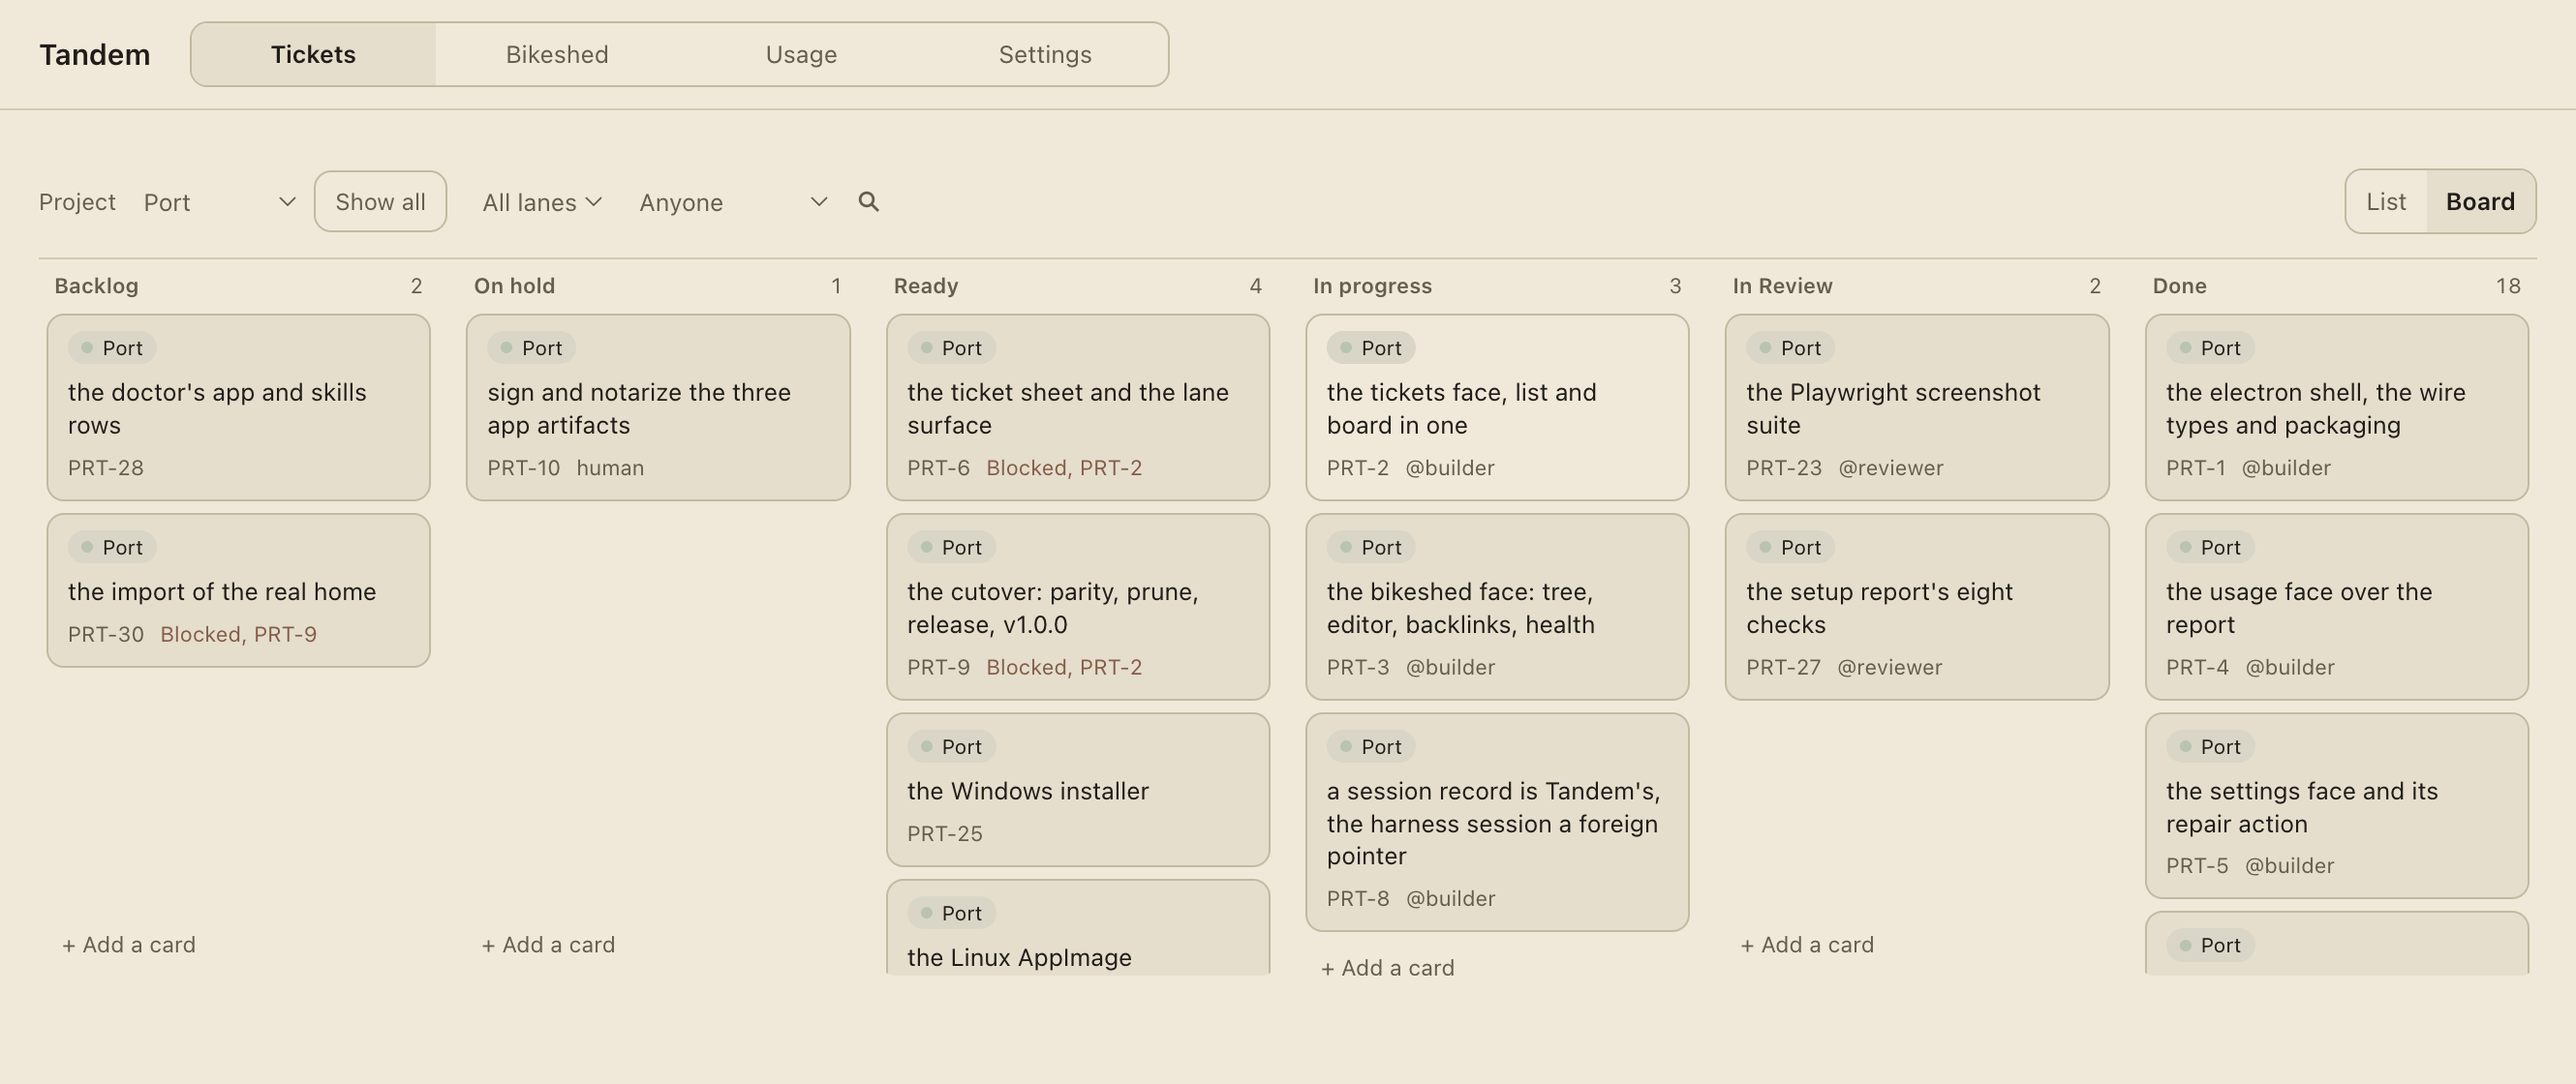
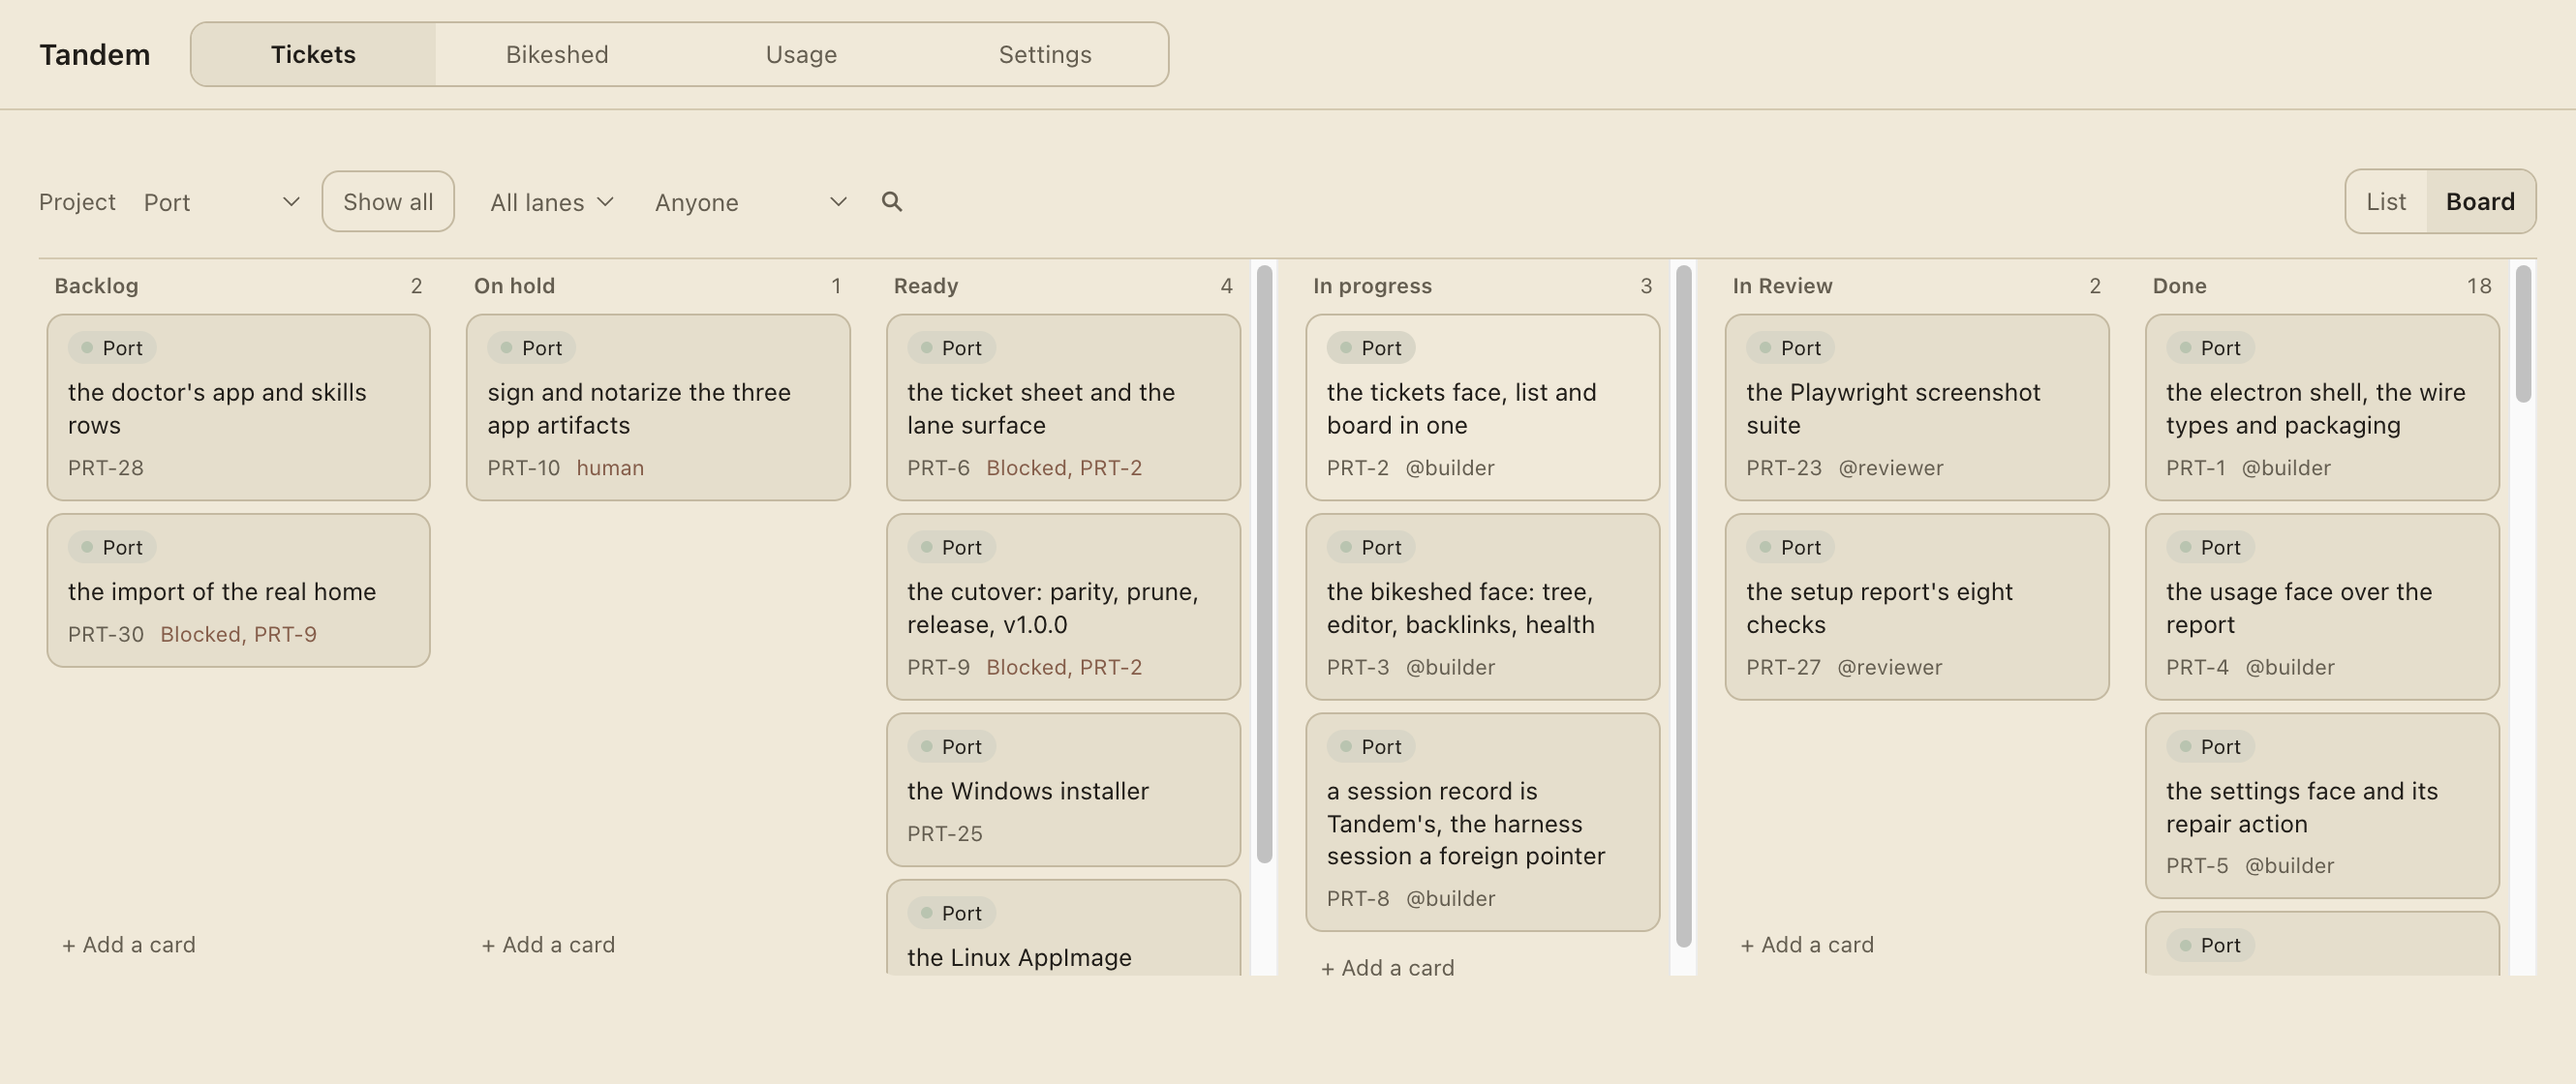
UI-33: the board's one axis is an ADR, the empty board draws its columns, the human chip keeps its ink

diff --git a/app/renderer/src/faces/TicketsFace.tsx b/app/renderer/src/faces/TicketsFace.tsx
@@ -366,6 +366,11 @@ export function TicketsFace({
     activeProject,
     onReload,
   )
+  // A store that has not answered yet draws its message alone. Once it has, the
+  // board's columns are the workflow's stages and exist with zero tickets, so
+  // the board draws them (with their add feet) and the copy sits above: the
+  // copy names an add the human can reach, and the add shortcut has a target.
+  const firstRead = snapshot.tickets.length === 0 && snapshot.status !== 'ready'
 
   const laneFilter = (
     <select
@@ -539,8 +544,26 @@ export function TicketsFace({
           </>
         )}
 
-        {empty ?? (
-          view === 'list' ? (
+        {view === 'board' ? (
+          firstRead ? (
+            empty
+          ) : (
+            <>
+              {empty}
+              <BoardLayout
+                columns={boardCols}
+                selected={current}
+                onSelect={setSelected}
+                onOpen={onOpenTicket}
+                onLane={(lane) => setFilters((current) => ({ ...current, lane }))}
+                onDropOn={dropStatus}
+                onAdd={addCard}
+                firstAddRef={firstAdd}
+              />
+            </>
+          )
+        ) : (
+          empty ?? (
             <TicketList
               columns={columns}
               stages={stages}
@@ -549,17 +572,6 @@ export function TicketsFace({
               onToggle={toggle}
               onOpen={onOpenTicket}
               onDropOn={dropOn}
-            />
-          ) : (
-            <BoardLayout
-              columns={boardCols}
-              selected={current}
-              onSelect={setSelected}
-              onOpen={onOpenTicket}
-              onLane={(lane) => setFilters((current) => ({ ...current, lane }))}
-              onDropOn={dropStatus}
-              onAdd={addCard}
-              firstAddRef={firstAdd}
             />
           )
         )}

diff --git a/app/tests/board.test.ts b/app/tests/board.test.ts
@@ -706,6 +706,16 @@ describe('the board face (UI-33)', () => {
     expect(face).not.toContain('LANE_CHANGED')
   })
 
+  it('draws the board columns on an empty board, so its add and the shortcut exist', () => {
+    const face = source('faces/TicketsFace.tsx')
+    // The store's first read draws its message alone; a ready store always
+    // draws the columns, whatever they hold, and the copy sits above them.
+    expect(face).toContain('const firstRead =')
+    expect(face).toContain('firstRead ?')
+    expect(face).toContain('<BoardLayout')
+    expect(face).toContain('firstAddRef={firstAdd}')
+  })
+
   it('lists the projects, not the lanes, in the one focus control', () => {
     expect(source('faces/FocusControl.tsx')).toContain('projects.map(')
     expect(source('faces/FocusControl.tsx')).toContain('All projects')

diff --git a/app/renderer/src/app.css b/app/renderer/src/app.css
@@ -1290,7 +1290,8 @@ body {
   white-space: nowrap;
 }
 
-.ticket-row__assignee--human {
+.ticket-row__assignee--human,
+.ticket-card__assignee--human {
   color: var(--ember-deep);
 }
 

diff --git a/rust/cli/src/usage.rs b/rust/cli/src/usage.rs
@@ -1276,9 +1276,9 @@ pub fn verb(name: &str) -> Option<&'static str> {
             "\n",
             "",
             "\n",
-            "The roster beside the active project: the lane the faces draw, or",
+            "The roster beside the active project: the project the faces draw,",
             "\n",
-            "null when no focus is set. The same read the app makes over `rpc`.",
+            "or null when no focus is set. The same read the app makes over `rpc`.",
         ),
         "settings set" => concat!(
             "tandem-cli settings set \u{2014} the roster and the focus, one axis per flag.",

diff --git a/docs/adr/0043-the-board-draws-one-axis.md b/docs/adr/0043-the-board-draws-one-axis.md
@@ -1,0 +1,32 @@
+# The board draws one axis: the workflow's stages
+
+The board carried two axes. Lanes were rows and the active workflow's stages were columns ([ADR 0041](0041-workflows-are-data.md)), so five lanes by six stages was 30 cells and most of them were empty dashed drop targets; a lane was also a filter in the header, so one fact was drawn twice. The board now draws one column per stage and nothing else: a lane is a chip on the card and a filter in the header, and the project is the focus the columns are narrowed by.
+
+Decided 2026-11-11 (UI-33 built it).
+
+## Decision
+
+- **The columns are the stages.** The board draws one column per stage of the active workflow, in stage order, Done included. Each is an independent scroll pane with a sticky head carrying the stage's label and the number of cards in it, and each foot carries the column's add. A seventh stage arrives through the workflow read with no code change.
+- **The board's set is every non-archived ticket.** It is narrowed by the project focus, the lane filter, the assignee filter and the search. The Open/Done/All scope and the status filter are the list's: the columns are the statuses, so a done ticket stands in Done whatever the scope says.
+- **A lane is a label.** The lane draws as a chip on the card, coloured by a hash of the lane name over the palette tokens, so no colour is stored and the same lane keeps its tone across sessions. Clicking the chip sets the lane filter and does not open the sheet. The lane is also a filter in the header, never an axis of the board, and a ticket with no lane draws no chip.
+- **The project is the focus.** `active_project` resolves against the board's projects, not the declared lanes. A stored value that names no project reads as no focus, which is the existing stale-focus rule, so no migration and no schema change. The show-all escape draws every project without clearing the stored focus.
+- **A card is its own component.** The lane chip, the title, and a footer of ref, `@assignee` and the blocked mark. No completion checkbox, no status pill (the column is the status), no lane text line, no strikethrough for done. One click opens the sheet, and a drag starts on the card and carries the ticket id.
+- **A drop is one write.** A drop on another column is one `ticket.set` carrying that column's stage. A drop in the column the card already stands in writes nothing, because the store's order is per lane and a lane-agnostic column has no order to write.
+- **The list keeps the lane axis.** It groups by lane, keeps its scopes, its status filter and its quick-add, and is narrowed by the same project focus.
+
+## Amendments
+
+- **[ADR 0017](0017-the-ticket-model.md): the lane stays the third axis; the board stops drawing it as rows.** The cycle lane is still the area of concern, which the list groups by; the board now draws it as a chip on the card. The sentence "which the list groups by and the board draws as its rows" is overruled in its board half only.
+- **[ADR 0039](0039-projects-own-lanes.md): the board groups by stage, not by project header.** The model stands unchanged: a project holds lanes, and a ticket's project is derived via its lane. The bullet "The board groups lanes under project headers in project order, default area first and ungrouped, empty projects not drawn" and the phrase "cross-project capture, first on the board" are overruled: the board draws stages, a project is the focus the columns are narrowed by, and the default area is a card with no chip.
+
+## Why
+
+- **Two axes drew one fact twice.** The lane was a row and a header filter at once, and the empty cells were most of the grid: a 78-ticket home needed a 1330 px window to show one screen.
+- **A lane-agnostic column has no order.** The store's order is per lane (`ticket.move` takes a lane and an index in it), so a column that mixes lanes has no order a drop could write. The list owns ordering, and the board's drop is a status write alone.
+- **A chip is the lane's whole drawing.** The lane's colour is a hash of its name, so the board gains a readable label without a stored colour and without a second truth.
+
+## Consequences
+
+- A board with an empty stage still draws that stage's column and its add foot, because the columns are the workflow's stages and exist with zero tickets. A first read that has not answered draws its message alone.
+- The board's copy names the per-column add, and `⌘N` reaches the first column's add; `⌥↑↓` orders in the list only, and `⌥←→` steps the status.
+- A stored `active_project` written by the lane-era build reads as no focus. The reader-first rule applies: no migration is needed because the stale value hides nothing.

diff --git a/docs/adr/0017-the-ticket-model.md b/docs/adr/0017-the-ticket-model.md
@@ -1,5 +1,7 @@
 # The ticket model: status carries done, archive sets a ticket aside, and the legacy `done` outlives both
 
+> **Amended 2026-11-11 by [ADR 0043](0043-the-board-draws-one-axis.md):** the cycle lane stays the third axis, but the board no longer draws it as its rows: the board's axis is the active workflow's stages, and the lane is a chip on the card and a filter in the header. The sentence below that says the board draws the lane as its rows is overruled in its board half. The amendment's text is ADR 0043's.
+
 > **Amended 2026-10-26 by [ADR 0031](0031-one-database-the-store.md):** the comment log this record added as `<home>/comments/<ticket-id>.jsonl`, appended under the store's sidecar `flock`, is the `comments` table, and an append is one transaction. The ticket model itself — status, archive, lane, description, assignee — is unchanged. The amendment's text is ADR 0031's.
 
 > **Amended 2026-11-08 by [ADR 0041](0041-workflows-are-data.md):** statuses become the active workflow's stages; the six values named below are the default `agile` workflow's keys, and a custom stage carries its stored key as a `Custom` status. The amendment's text is ADR 0041's.

diff --git a/docs/adr/0039-projects-own-lanes.md b/docs/adr/0039-projects-own-lanes.md
@@ -1,5 +1,7 @@
 # Projects own lanes; a lane has exactly one parent
 
+> **Amended 2026-11-11 by [ADR 0043](0043-the-board-draws-one-axis.md):** the board no longer groups lanes under project headers. It draws one column per workflow stage, a lane is a chip on the card and a filter, and the project is the focus the columns are narrowed by. This record's model (a project holds lanes, a ticket derives its project via its lane) stands unchanged. The amendment's text is ADR 0043's.
+
 > **Amended 2026-11-08 by [ADR 0041](0041-workflows-are-data.md):** `projects.workflow` is the later hook for a per-project workflow. Projects still own lanes unchanged; this record's model gains the nullable column and no reader yet. The amendment's text is ADR 0041's.
 
 Project and lane are coupled but not the same entity. A project holds several
